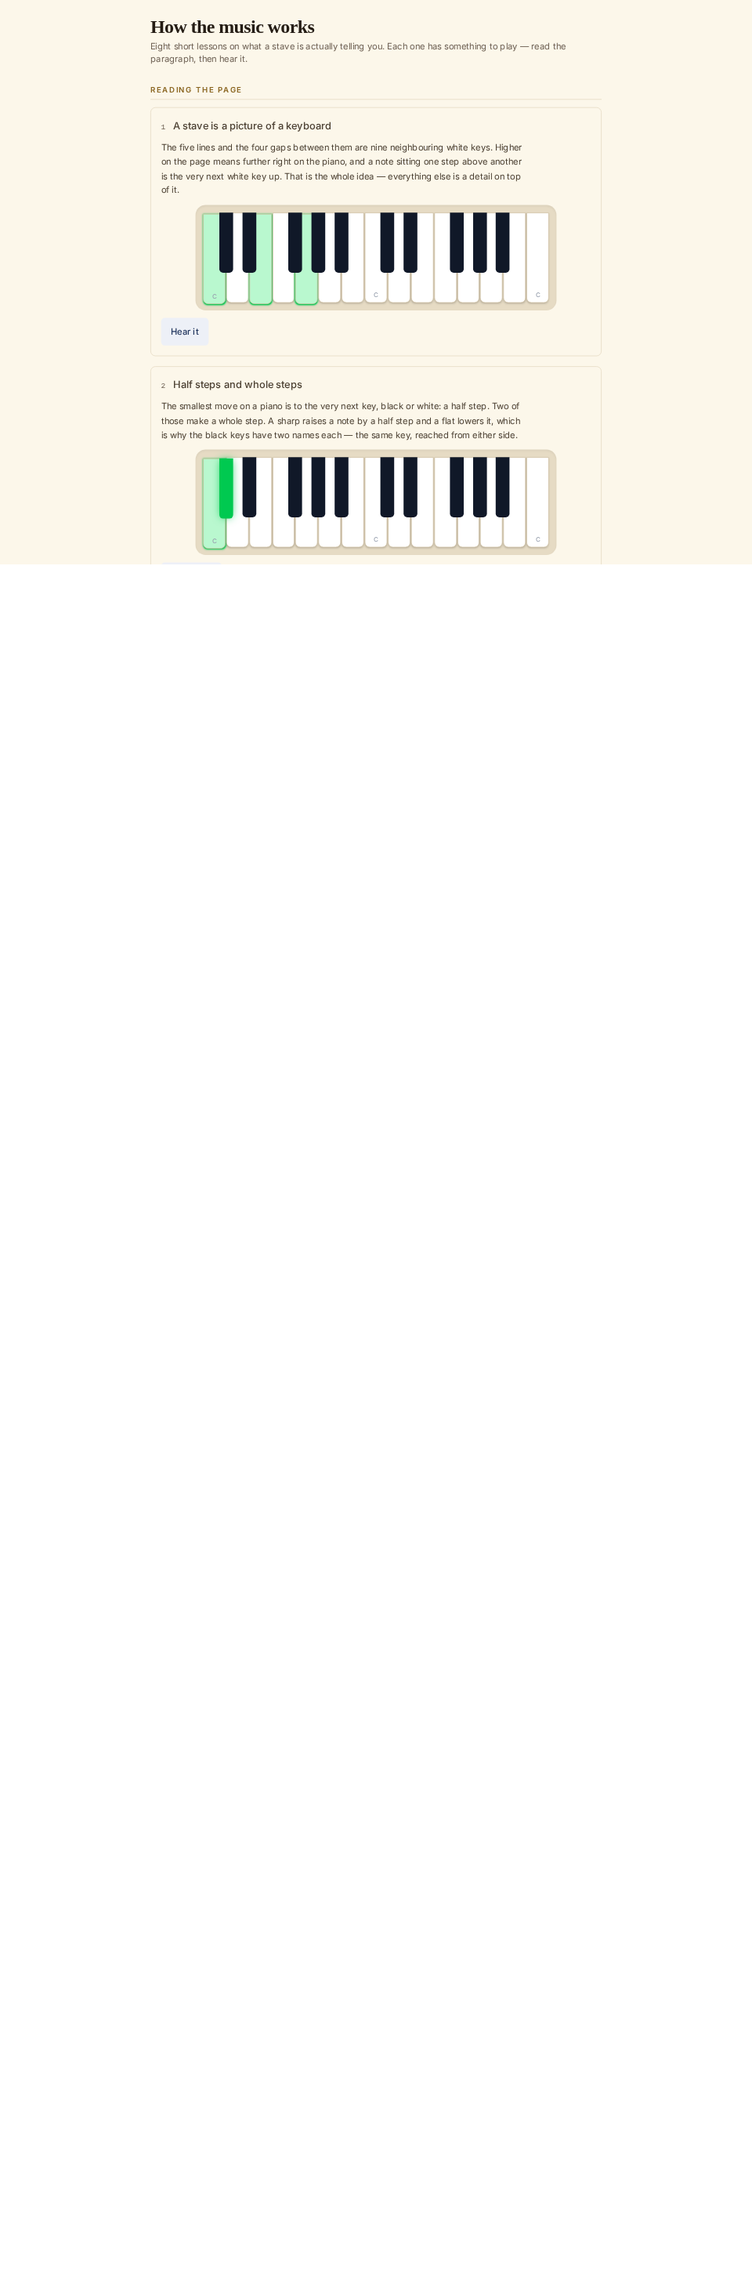
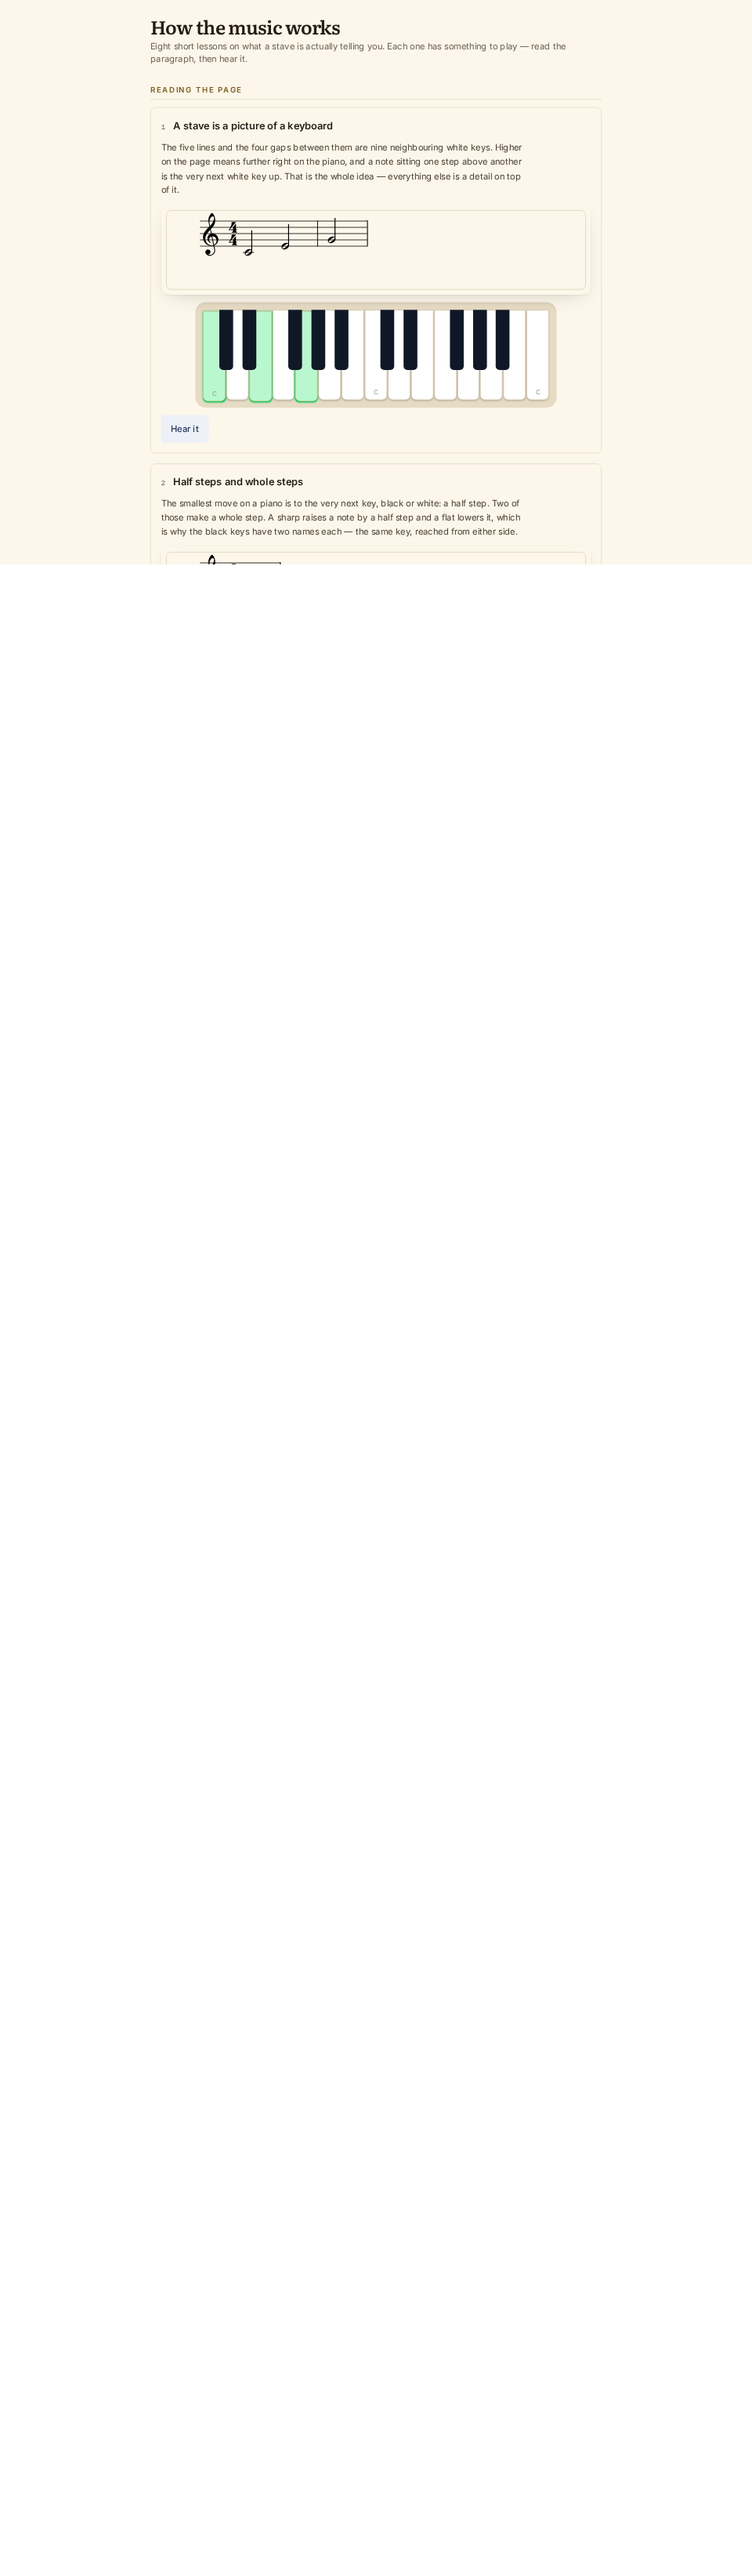
feat(learn): show the real keyboard, the real stave, and answers that stay together
Meet the keyboard taught finding a key by the pattern of the black ones while
labelling every key, and the labels are on by default — so the page whose whole
lesson is finding something was the one page with nothing left to find. The tour
now runs on the same unaided preferences the placement drill uses; the function is
named for what it does rather than for one of its callers.

How the music works described five lines and four gaps, and a dot's height saying
which key, and drew a keyboard. Each reading lesson now prints the stave with the
notes it is about, built by the snippet builder the tour already uses — so the
table of natural letters moves to core rather than being copied.

Ear training laid its answers out in three fixed columns. Set to fewer than the
full set, two answers stretched across the width with a gap between them the size
of a third: they wrap and stay centred now. The full set lands on the same three
per row it always did, which is why no existing story moved — the two-answer case
is the one worth a picture, so it has one.

Changed region(s): [[0.1875, 0.0, 0.75, 0.2497]]

diff --git a/app/routes/basics.tsx b/app/routes/basics.tsx
@@ -1,12 +1,21 @@
 // SPDX-FileCopyrightText: The Plinky Authors
 // SPDX-License-Identifier: AGPL-3.0-or-later
 
+import { useMemo } from "react";
+
 import { useNavigate } from "react-router";
 import { noindexMeta, routeMeta } from "../../core/site";
 import { levelAids } from "../../core/readingLevel";
 import { KeyboardTour } from "../components/features/keyboardTour";
-import { useOnboardingStore, usePrefsStore } from "../contexts/services";
+import {
+    ServicesProvider,
+    useOnboardingStore,
+    usePrefsStore,
+    useServices,
+} from "../contexts/services";
 import { localizedHref } from "../components/ui/href";
+import { unaidedPrefs } from "../../core/prefs";
+import { createFixedPrefsStore } from "../stores/fixedPrefsStore";
 import { m } from "../paraglide/messages.js";
 import type { Route } from "./+types/basics";
 import { PageHeader } from "../components/ui/pageHeader";
@@ -25,25 +34,40 @@ export default function Basics() {
     // usePrefs subscribes to the whole object — which would re-render the page on every
     // unrelated save (a volume change, a score toggle) for a value it never looks at.
     const prefsStore = usePrefsStore();
+    const services = useServices();
     const navigate = useNavigate();
+    // The lesson is how to find a key on a real keyboard — the black keys in twos and
+    // threes, middle C to the left of a two. A labelled keyboard answers that before it is
+    // asked, and the labels are on by default, so the page that teaches finding would be
+    // the one page never showing anything to find. The tour runs unaided whatever the
+    // player has set; their own keyboard theme, sound and key map are untouched.
+    const unaided = useMemo(
+        () => ({
+            ...services,
+            prefs: createFixedPrefsStore(unaidedPrefs(services.prefs.load())),
+        }),
+        [services],
+    );
 
     return (
         <main className="mx-auto max-w-3xl space-y-8 p-6 font-sans">
             <PageHeader title={m.basics_title()} hint={m.basics_intro()} />
 
-            <KeyboardTour
-                onFinished={() => {
-                    // Finishing ticks the checklist step; nothing about the tour is
-                    // required, so leaving part-way simply leaves it unticked.
-                    onboarding.markDiscovered("keyboardMet");
-                    // Someone who just worked out where middle C is has told us plainly
-                    // where they are, so the reading aids go all the way up and the run
-                    // panel folds to its essentials. Only the five aid fields move; every
-                    // personal and physical preference is left exactly as it was.
-                    prefsStore.save({ ...prefsStore.load(), ...levelAids("starter") });
-                    navigate(localizedHref("/"));
-                }}
-            />
+            <ServicesProvider services={unaided}>
+                <KeyboardTour
+                    onFinished={() => {
+                        // Finishing ticks the checklist step; nothing about the tour is
+                        // required, so leaving part-way simply leaves it unticked.
+                        onboarding.markDiscovered("keyboardMet");
+                        // Someone who just worked out where middle C is has told us plainly
+                        // where they are, so the reading aids go all the way up and the run
+                        // panel folds to its essentials. Only the five aid fields move; every
+                        // personal and physical preference is left exactly as it was.
+                        prefsStore.save({ ...prefsStore.load(), ...levelAids("starter") });
+                        navigate(localizedHref("/"));
+                    }}
+                />
+            </ServicesProvider>
         </main>
     );
 }

diff --git a/app/routes/theory.tsx b/app/routes/theory.tsx
@@ -15,6 +15,8 @@ import {
     UNITS,
     type UnitId,
 } from "../../core/theoryCourse";
+import { buildSnippet, NATURAL_OF, type SnippetNote } from "../../core/glossaryScore";
+import { NotationExample } from "../components/features/notationExample";
 import { DEMO_FROM, SoundingKeyboard } from "../components/features/soundingKeyboard";
 import { useTheoryStore } from "../contexts/services";
 import { m } from "../paraglide/messages.js";
@@ -95,6 +97,25 @@ function litNotes(demo: Demo): number[] {
     }
 }
 
+// The reading unit talks about the page — five lines, four gaps, a dot's height saying
+// which key — while every demonstration was a keyboard. The lesson that names the stave
+// now shows one, with the very notes it is about, so the reader can look at the thing the
+// sentence describes instead of taking it on trust.
+function readingXml(demo: Demo): string | null {
+    const notes: SnippetNote[] = [];
+    for (const pitch of litNotes(demo)) {
+        const letter = NATURAL_OF[((pitch % 12) + 12) % 12];
+        // Only the naturals are drawn: an accidental needs the sharp or flat spelling the
+        // lesson has not introduced yet, and the shape of the stave is what is being shown.
+        if (letter) {
+            notes.push({ step: letter, octave: Math.floor(pitch / 12) - 1, value: "half" });
+        }
+    }
+    return notes.length > 0
+        ? buildSnippet({ clef: "treble", fifths: 0, beatsPerBar: 4, notes })
+        : null;
+}
+
 function LessonDemo({ demo, onPlay }: { demo: Demo; onPlay: () => void }) {
     const key = demo.kind === "circle" ? CIRCLE.find((one) => one.tonic === demo.tonic) : null;
     // A comparison plays the same idea twice — the second reading after a gap, so the
@@ -144,6 +165,12 @@ function LessonCard({ lesson, index }: { lesson: Lesson; index: number }) {
                 {/* Hearing the idea is what meeting the lesson means, so playing it is what
                 records it — there is nothing to tick, and the course never asks the
                 reader to mark their own homework. */}
+                {lesson.unit === "reading" && readingXml(lesson.demo) && (
+                    <NotationExample
+                        xml={readingXml(lesson.demo) ?? ""}
+                        label={LESSON_TITLE[lesson.id]?.() ?? ""}
+                    />
+                )}
                 <LessonDemo demo={lesson.demo} onPlay={() => theory.markMet(lesson.id)} />
             </Card>
         </li>

diff --git a/app/routes/basics.test.tsx b/app/routes/basics.test.tsx
@@ -1,0 +1,70 @@
+// SPDX-FileCopyrightText: The Plinky Authors
+// SPDX-License-Identifier: AGPL-3.0-or-later
+// @vitest-environment jsdom
+
+import { cleanup, screen } from "@testing-library/react";
+import { afterEach, describe, expect, it, vi } from "vitest";
+import { MemoryRouter } from "react-router";
+import { memoryStore } from "../adapters/memoryStore";
+import { usePrefs } from "../hooks/usePrefs";
+import { renderWithServices } from "../testing/renderWithServices";
+import Basics from "./basics";
+
+// The tour drives audio and a live keyboard; what this covers is the preferences the page
+// hands it, which is what decides whether there is anything left to find.
+const seenPrefs = vi.fn();
+vi.mock("../components/features/keyboardTour", () => ({
+    KeyboardTour: () => {
+        seenPrefs(usePrefs().prefs);
+        return <div data-testid="tour" />;
+    },
+}));
+
+afterEach(cleanup);
+
+describe("Basics", () => {
+    it("shows the keyboard unaided, whatever the player turned on", () => {
+        seenPrefs.mockClear();
+        renderWithServices(
+            <MemoryRouter>
+                <Basics />
+            </MemoryRouter>,
+            {
+                store: memoryStore({
+                    "plinky:prefs": JSON.stringify({
+                        noteLabels: "all",
+                        colorNotes: true,
+                        noteHints: "always",
+                        highway: true,
+                    }),
+                }),
+            },
+        );
+
+        const prefs = seenPrefs.mock.calls.at(-1)?.[0];
+        // Every key labelled is the answer to the question the lesson asks.
+        expect(prefs.noteLabels).toBe("off");
+        expect(prefs.colorNotes).toBe(false);
+        expect(prefs.noteHints).toBe("never");
+        expect(prefs.highway).toBe(false);
+        expect(screen.getByTestId("tour")).toBeTruthy();
+    });
+
+    it("leaves the player's own instrument alone", () => {
+        seenPrefs.mockClear();
+        renderWithServices(
+            <MemoryRouter>
+                <Basics />
+            </MemoryRouter>,
+            {
+                store: memoryStore({
+                    "plinky:prefs": JSON.stringify({ volume: 25, sound: false }),
+                }),
+            },
+        );
+
+        const prefs = seenPrefs.mock.calls.at(-1)?.[0];
+        expect(prefs.volume).toBe(25);
+        expect(prefs.sound).toBe(false);
+    });
+});

diff --git a/app/components/features/earChoices.tsx b/app/components/features/earChoices.tsx
@@ -28,9 +28,14 @@ export function EarChoices<T extends string>({
     label: string;
 }) {
     const settled = answer !== null;
+    // Wrapping rather than a fixed grid: the drill can be set to as few as two answers, and
+    // three columns then stretched each one across a third of the width with the row half
+    // empty — a lot of space between two things that belong together. They keep a common
+    // minimum so a short name and a long one still make a tidy row, and the group stays
+    // centred however many there are.
     return (
         <fieldset
-            className="mx-auto grid w-full min-w-0 max-w-md grid-cols-2 gap-2 sm:grid-cols-3"
+            className="mx-auto flex w-full min-w-0 max-w-md flex-wrap justify-center gap-2"
             aria-label={label}
         >
             {choices.map((choice) => {
@@ -47,7 +52,7 @@ export function EarChoices<T extends string>({
                         key={choice}
                         disabled={settled}
                         onClick={() => onChoose(choice)}
-                        className={`flex min-h-11 items-center justify-center rounded-md border px-3 text-center text-sm font-medium transition-colors disabled:cursor-default ${answerClasses(verdict, settled)}`}
+                        className={`flex min-h-11 min-w-28 flex-auto items-center justify-center rounded-md border px-3 text-center text-sm font-medium transition-colors disabled:cursor-default ${answerClasses(verdict, settled)}`}
                     >
                         {nameOf(choice)}
                     </button>

diff --git a/core/prefs.ts b/core/prefs.ts
@@ -334,8 +334,10 @@ export function parsePrefs(raw: string | null): Prefs {
     }
 }
 
-// The reading a sight-reading assessment measures: the staff as it is printed, with every
-// aid off. A placement drill that can be taken with the notes falling down a highway, the
+// The staff and the keyboard as they really are, with every aid off. Two surfaces want
+// this for two reasons: the placement drill, whose result would otherwise depend on how
+// much help the player had switched on, and the keyboard tour, which teaches finding a key
+// by the pattern of the black ones — a lesson that labelled keys skip entirely. A placement drill that can be taken with the notes falling down a highway, the
 // noteheads coloured by name and the keys labelled is not measuring reading — and one
 // taken with hidden notes or the cursor waiting is measuring something else again. So the
 // test supplies its own preferences instead of the player's, and nothing on the page can
@@ -344,7 +346,7 @@ export function parsePrefs(raw: string | null): Prefs {
 // What it does NOT touch: sound, volume, the key map, hand span, the keyboard's theme.
 // Those are how a person's instrument is set up rather than how much the page is helping,
 // and taking them away would leave a player unable to use their own keyboard.
-export function assessmentPrefs(base: Prefs): Prefs {
+export function unaidedPrefs(base: Prefs): Prefs {
     return {
         ...base,
         colorNotes: false,

diff --git a/core/prefs.test.ts b/core/prefs.test.ts
@@ -3,7 +3,7 @@
 
 import { describe, expect, it } from "vitest";
 import { DEFAULT_KEY_MAP, rebind } from "./keyMap";
-import { assessmentPrefs, DEFAULT_PREFS, parsePrefs, type Prefs } from "./prefs";
+import { unaidedPrefs, DEFAULT_PREFS, parsePrefs, type Prefs } from "./prefs";
 
 const BASE: Prefs = {
     sound: true,
@@ -213,7 +213,7 @@ describe("mic calibration prefs", () => {
     });
 });
 
-describe("assessmentPrefs", () => {
+describe("unaidedPrefs", () => {
     it("turns off every reading aid, whatever the player set", () => {
         const helped: Prefs = {
             ...DEFAULT_PREFS,
@@ -228,7 +228,7 @@ describe("assessmentPrefs", () => {
             raceGhost: true,
             beams: "off",
         };
-        const strict = assessmentPrefs(helped);
+        const strict = unaidedPrefs(helped);
         expect(strict.colorNotes).toBe(false);
         expect(strict.noteLabels).toBe("off");
         expect(strict.noteHints).toBe("never");
@@ -245,7 +245,7 @@ describe("assessmentPrefs", () => {
         // How loud, which keys, how big a hand: those are the person's setup, not the
         // page helping them read.
         const mine: Prefs = { ...DEFAULT_PREFS, volume: 30, sound: false, keyboardTheme: "wood" };
-        const strict = assessmentPrefs(mine);
+        const strict = unaidedPrefs(mine);
         expect(strict.volume).toBe(30);
         expect(strict.sound).toBe(false);
         expect(strict.keyboardTheme).toBe("wood");

diff --git a/app/components/features/keyboardTour.tsx b/app/components/features/keyboardTour.tsx
@@ -16,7 +16,7 @@ import {
     type TourStep,
     tourProgress,
 } from "../../../core/keyboardTour";
-import { buildSnippet, type SnippetNote } from "../../../core/glossaryScore";
+import { buildSnippet, NATURAL_OF, type SnippetNote } from "../../../core/glossaryScore";
 import { holdScaleFor } from "../../../core/midi";
 import { useMidiConnection, useMidiInput } from "../../contexts/midi";
 import { useKeyboardTheme } from "../../hooks/useKeyboardTheme";
@@ -54,25 +54,6 @@ const STEP_BODY: Record<string, () => string> = {
     noteToKey: m.tour_note_to_key_body,
     highLow: m.tour_high_low_body,
 };
-
-// The natural letter each white key carries; black keys have none, and the tour never
-// staffs one — spelling a black key would mean choosing between a sharp and a flat, a
-// decision none of these steps is making. A core test pins that, so the gaps are
-// unreachable rather than quietly drawn as something else.
-const NATURAL_OF: (string | null)[] = [
-    "C",
-    null,
-    "D",
-    null,
-    "E",
-    "F",
-    null,
-    "G",
-    null,
-    "A",
-    null,
-    "B",
-];
 
 // A step's staff pitches, drawn on the same engine as every real score so what is
 // learned here looks like what will be met in a piece.

diff --git a/core/glossaryScore.ts b/core/glossaryScore.ts
@@ -31,6 +31,24 @@ const VALUE_DIVISIONS: Record<NoteValue, number> = {
 
 // The mark on a note. Length articulations and the accent are independent — a note
 // can be both — which is why they are separate fields rather than one enum.
+// The natural letter each white key carries; black keys have none, and nothing that uses
+// this staffs one — spelling a black key would mean choosing between a sharp and a flat,
+// a decision these callers are not making.
+export const NATURAL_OF: readonly (string | null)[] = [
+    "C",
+    null,
+    "D",
+    null,
+    "E",
+    "F",
+    null,
+    "G",
+    null,
+    "A",
+    null,
+    "B",
+];
+
 export type SnippetNote = {
     // The written pitch, or null for a rest.
     step: string | null;

diff --git a/app/routes/placement.tsx b/app/routes/placement.tsx
@@ -14,7 +14,7 @@ import {
     placementRating,
     startPlacement,
 } from "../../core/placement";
-import { assessmentPrefs } from "../../core/prefs";
+import { unaidedPrefs } from "../../core/prefs";
 import { noindexMeta, routeMeta } from "../../core/site";
 import { createFixedPrefsStore } from "../stores/fixedPrefsStore";
 import { ScoreViewer } from "../components/features/scoreViewer";
@@ -55,7 +55,7 @@ export default function PlacementRoute() {
     const assessed = useMemo(
         () => ({
             ...services,
-            prefs: createFixedPrefsStore(assessmentPrefs(services.prefs.load())),
+            prefs: createFixedPrefsStore(unaidedPrefs(services.prefs.load())),
         }),
         [services],
     );

diff --git a/app/components/features/earChoices.stories.tsx b/app/components/features/earChoices.stories.tsx
@@ -49,3 +49,17 @@ export const Missed: Story = {
         label: "Chord choices",
     },
 };
+
+// The narrowest the drill goes. Three columns used to stretch two answers across two
+// thirds of the width with a gap between them the size of a third answer; wrapping keeps
+// them together and centred, which is what this story is here to hold.
+export const TwoAnswers: Story = {
+    args: {
+        choices: ["major", "minor"] satisfies ChordQuality[],
+        answer: null,
+        given: null,
+        onChoose: () => {},
+        nameOf: chordName,
+        label: "Chord choices",
+    },
+};

diff --git a/NEWS.md b/NEWS.md
@@ -341,6 +341,21 @@ the hand as well as the notes. The mapping is the same in every video you make.
 
 ## 15 August 2026
 
+**Meet the keyboard now shows you a real one.** The lesson teaches finding a key by the
+pattern of the black ones — twos and threes, middle C to the left of a two — and every key
+was labelled while it did, which answers the question before it is asked. The tour runs
+with the labels, colours and hints off whatever you have set elsewhere; your sound, your
+keys and your keyboard's look are untouched.
+
+**How the music works finally shows the page it talks about.** The first lessons describe
+five lines and four gaps, and a dot's height saying which key, while the only picture was a
+keyboard. Each reading lesson now prints the stave with the very notes it is about, above
+the keys.
+
+**Ear training keeps its answers together.** With fewer than the full set of answers, three
+columns stretched two of them across the width with a gap between the size of a third
+answer. They wrap and stay centred now, whatever you have set it to ask.
+
 **The music page is called the Library**, which is what its address has always said. The
 offer to write your own has left the foot of it — Compose is in the bar at the top now, so
 it no longer needs a door at the bottom of a list of things to play.
